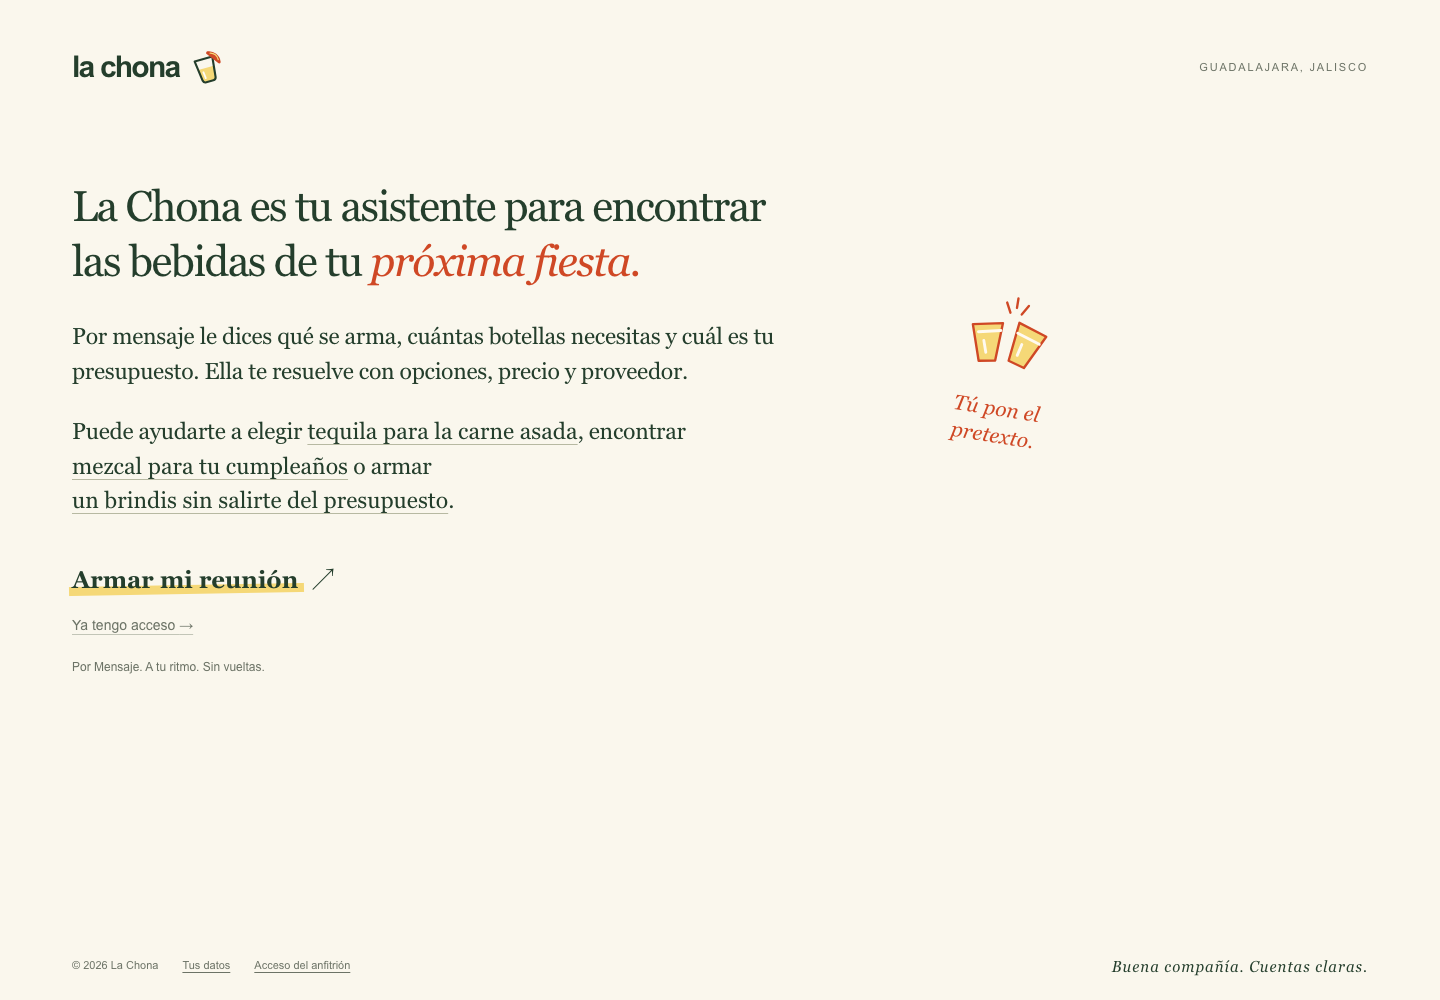
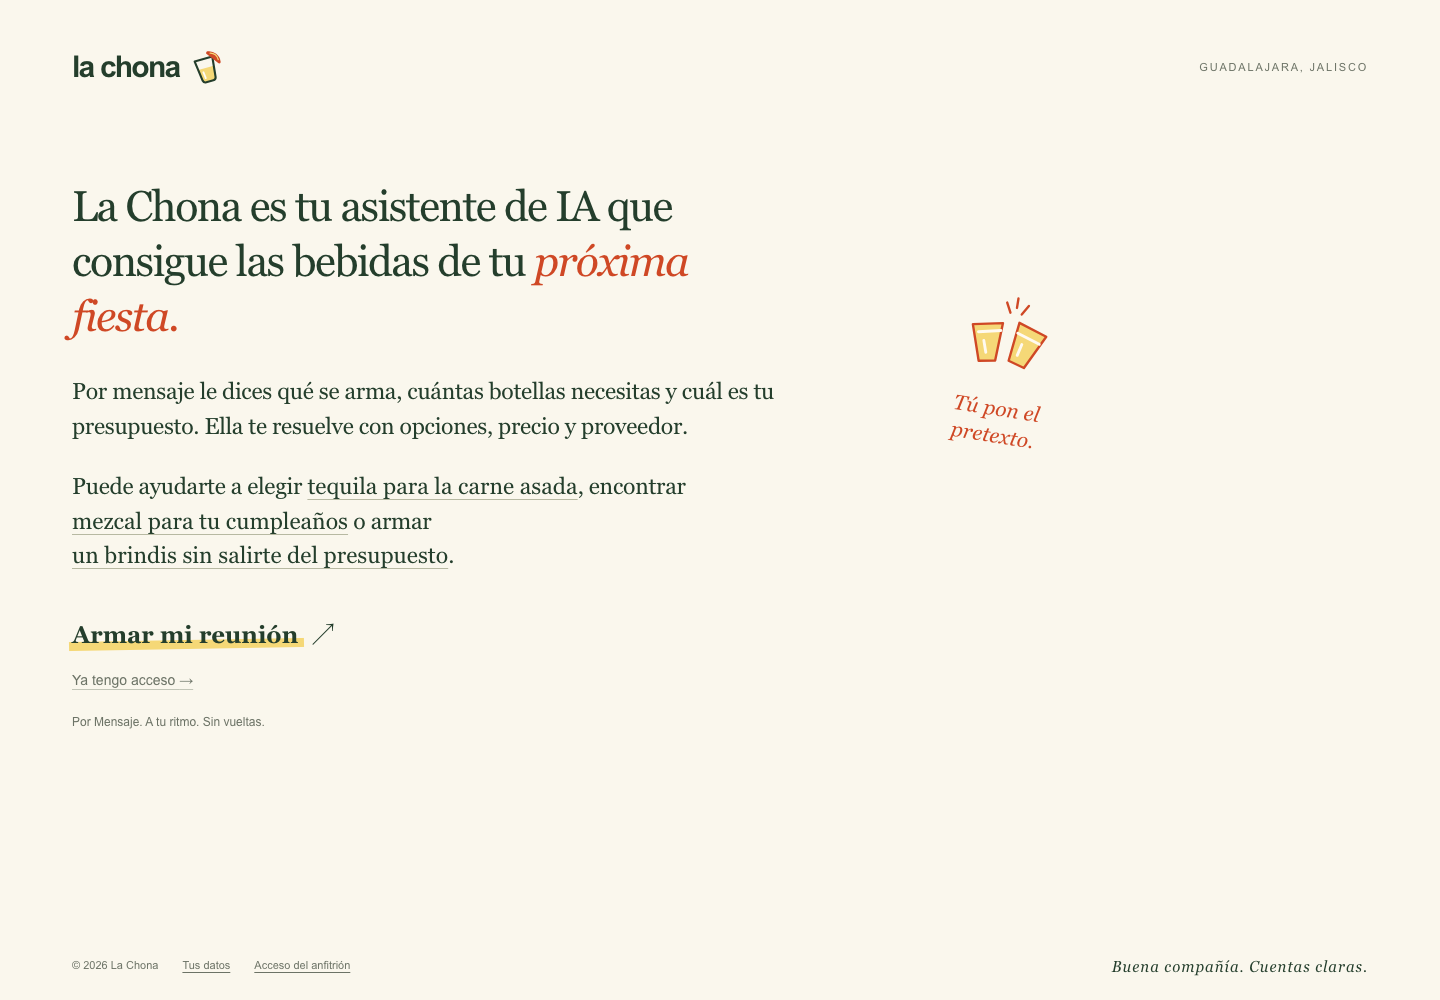
Add evaluation guide and refresh live landing evidence

Changed region(s): [[0.0312, 0.31, 0.5312, 0.682], [0.0312, 0.186, 0.5312, 0.279], [0.0625, 0.713, 0.1875, 0.744]]

diff --git a/docs/EVALUATION.md b/docs/EVALUATION.md
@@ -1,0 +1,30 @@
+# Guía para evaluar La Chona
+
+**Demo:** [lachona.ai](https://lachona.ai) · **Presentación:** [Loom](https://www.loom.com/share/135a3098f5b14cd38d324bf965abad09) · **[Evidencia de Codex](BUILT-WITH-CODEX.md)**
+
+## Qué resuelve V1
+
+Una persona comparte bebida, cantidad, presupuesto y zona. La Chona confirma la interpretación y presenta hasta tres alternativas del catálogo con proveedor, presentación exacta, precio observado, subtotal y fuente. Más servicios para organizar fiestas pertenecen a V2.
+
+## Recorrido de evaluación
+
+Solicita acceso en la landing y espera la aprobación del anfitrión. Vuelve desde el mismo navegador para abrir el enlace de Telegram. Envía: **6 botellas de tequila blanco, presupuesto $3000, Zapopan, 30 invitados**. Confirma el resumen, revisa las opciones y luego prueba **presupuesto $1000**. Treinta invitados deben seguir siendo contexto, no treinta botellas. [Guion e instrucciones](DEMO.md).
+
+## Evidencia técnica
+
+| Aspecto | Qué revisar |
+| --- | --- |
+| Utilidad y alcance | Flujo completo de bebidas; separación explícita de V1 y funciones futuras |
+| Confiabilidad | Confirmación humana, cantidades validadas, subtotales en centavos y precios con fuente/fecha |
+| Experiencia | Landing móvil/escritorio, estados de aprobación, mensajes de espera y recuperación |
+| Arquitectura | TypeScript, Qwen/Ollama local, cola serial, SQLite y acceso Workers/D1 |
+| Uso de Codex | Captura original, tareas concretas y explicación de su verificación |
+| Reutilización | Starter, bibliotecas y procedencia documentados en [atribuciones](REUSE-AND-LICENSES.md) |
+
+Pasaron 18 pruebas automatizadas y comprobaciones de tipos. El flujo web real se verificó con aprobación y revocación. El benchmark local de cinco interpretaciones consecutivas fue 60.44 segundos; no representa cinco cuentas reales simultáneas.
+
+## Límites y acceso al código
+
+V1 utiliza un catálogo acotado de un proveedor de Guadalajara/Zapopan. No compra, contrata ni garantiza existencia, envío o entrega. La demo requiere aprobación y el equipo de inferencia local disponible.
+
+El código y la documentación operativa son privados. El propietario debe conceder acceso para revisión técnica; [solicítalo aquí](https://github.com/sergiodeduarte/lachona/issues/new?title=Acceso%20para%20revisi%C3%B3n%20t%C3%A9cnica). El material público explica el producto y sus evidencias; la decisión de elegibilidad corresponde a los organizadores.

diff --git a/README.md b/README.md
@@ -69,6 +69,7 @@ Codex es la herramienta de desarrollo. La interpretación de mensajes del produc
 | --- | --- |
 | Demo y solicitud de acceso | [lachona.ai](https://lachona.ai) |
 | Presentación registrada | [Video en Loom](https://www.loom.com/share/135a3098f5b14cd38d324bf965abad09) |
+| Guía breve para evaluación | [Evaluar La Chona](docs/EVALUATION.md) |
 | Guion reproducible e instrucciones de ejecución | [Probar La Chona](docs/DEMO.md) |
 | Trabajo con Codex y verificación | [Construida con Codex](docs/BUILT-WITH-CODEX.md) |
 | Trabajo nuevo, componentes reutilizados y licencias | [Reutilización y atribuciones](docs/REUSE-AND-LICENSES.md) |
